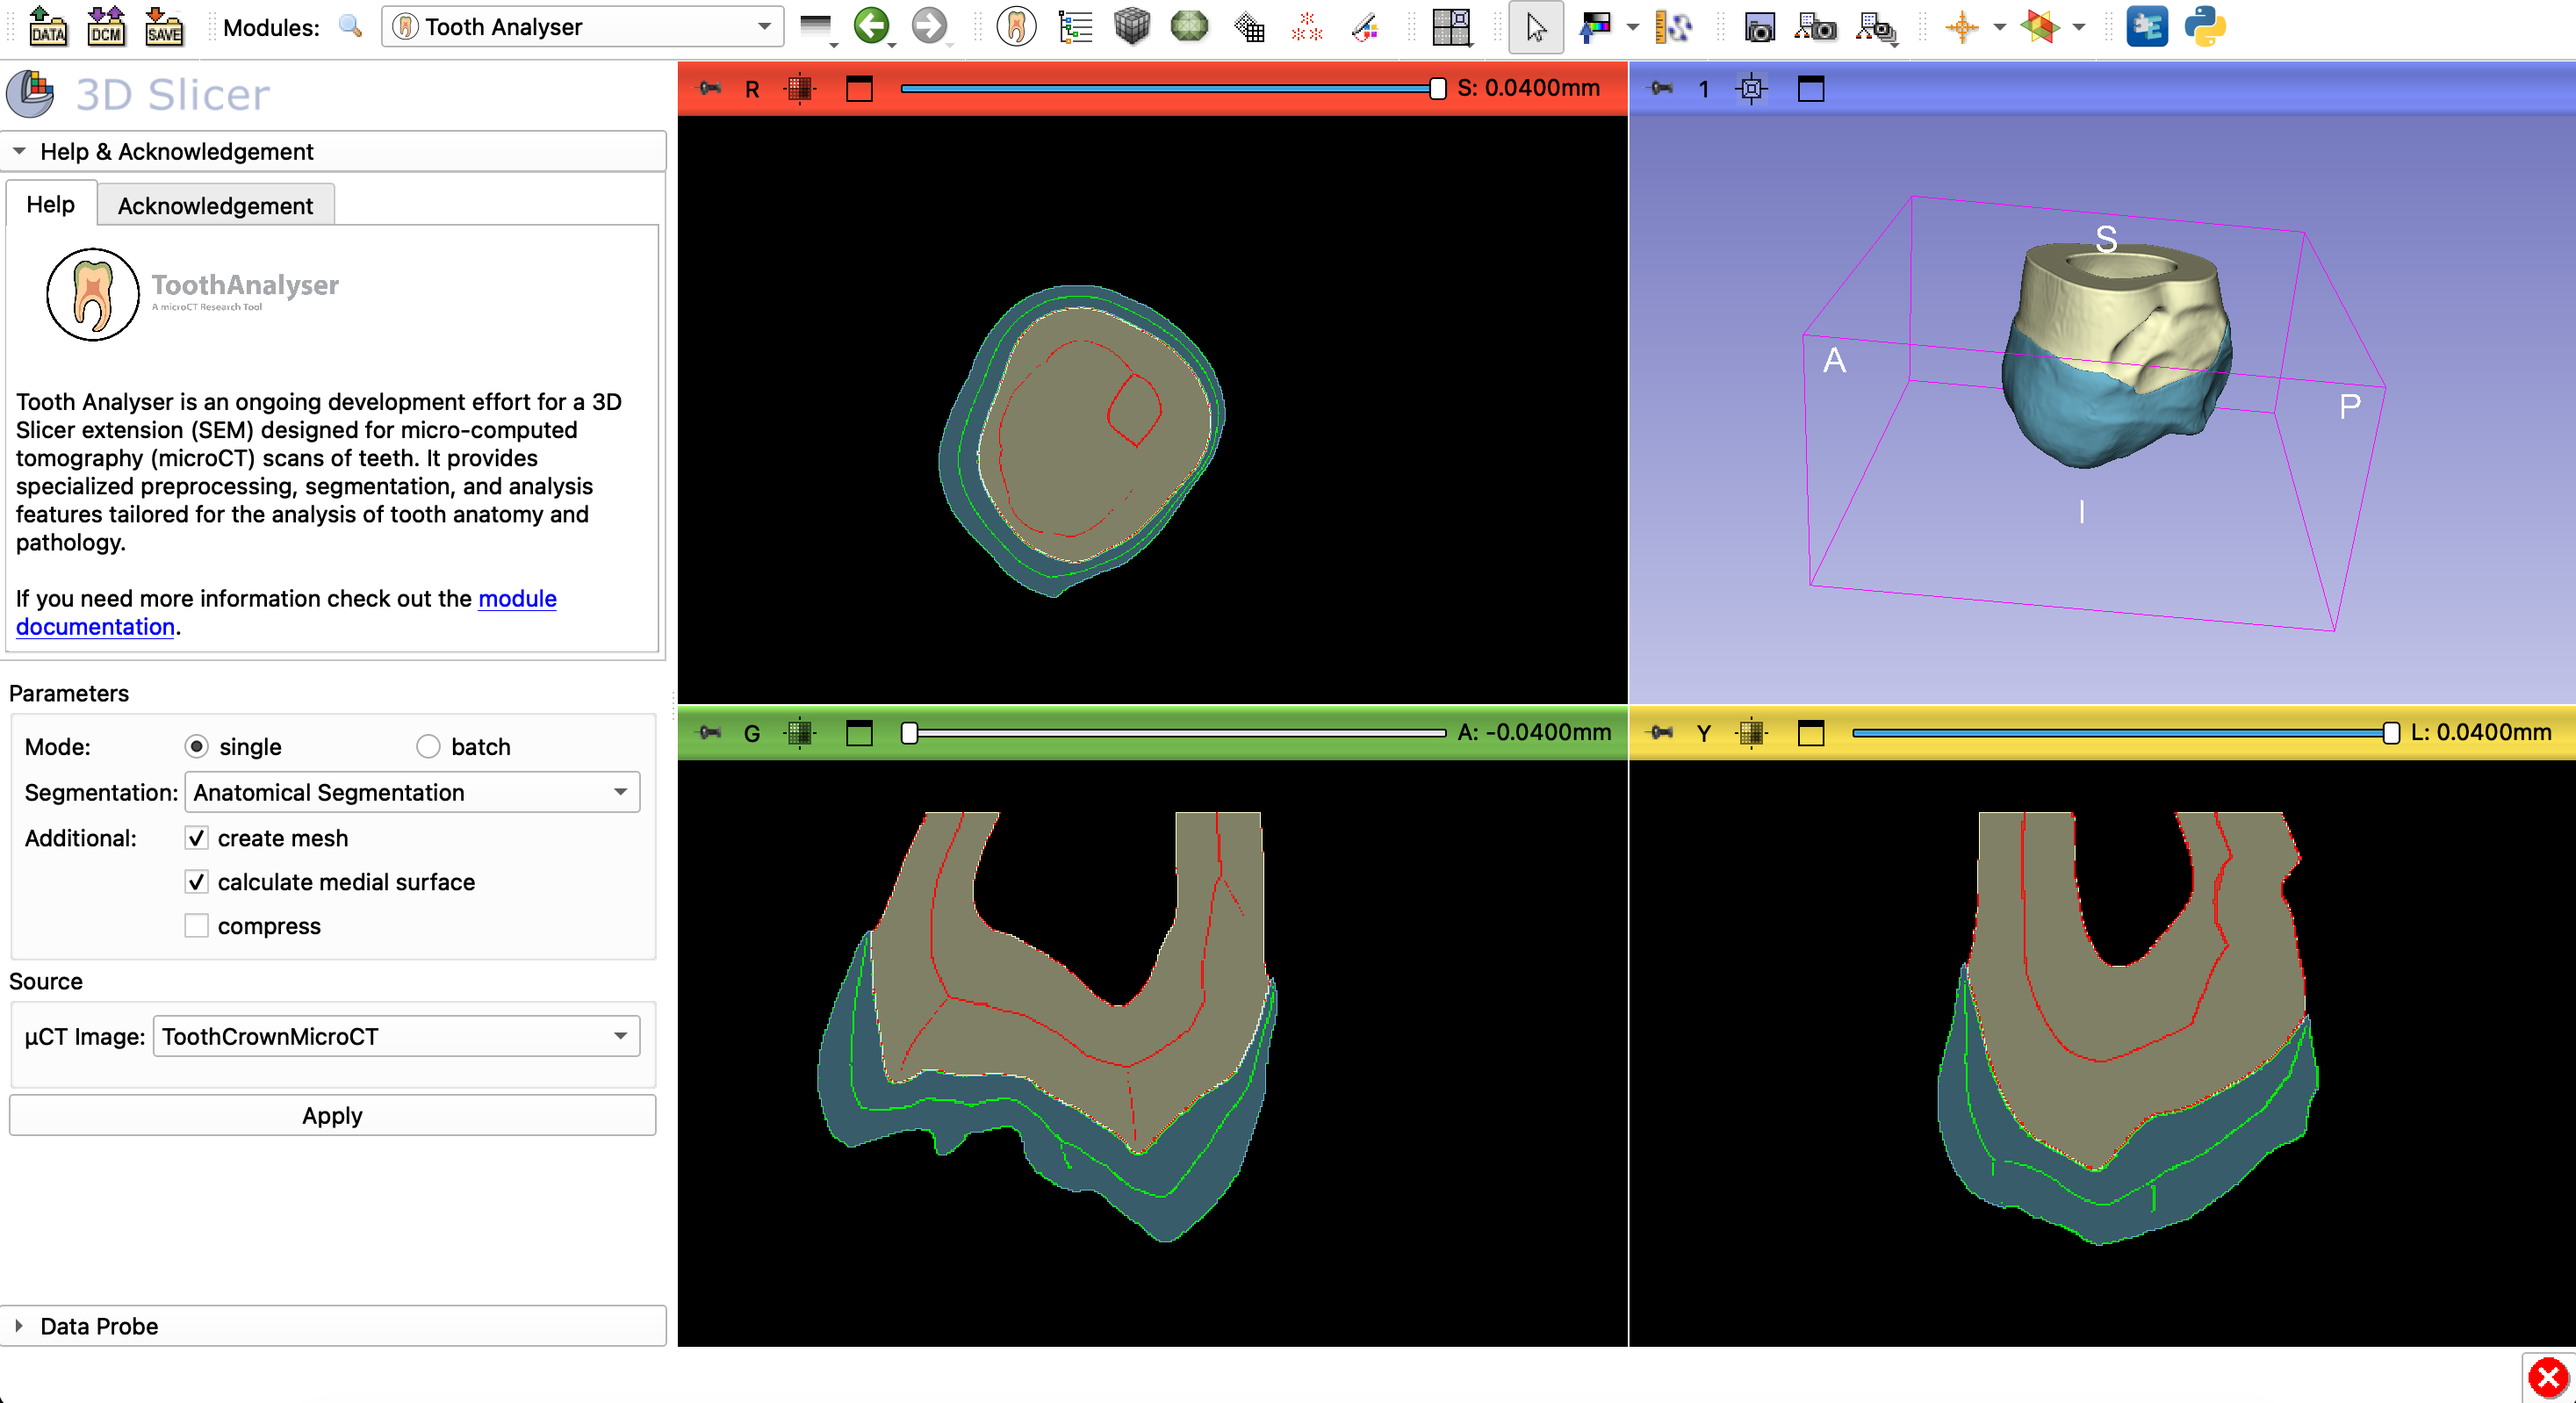
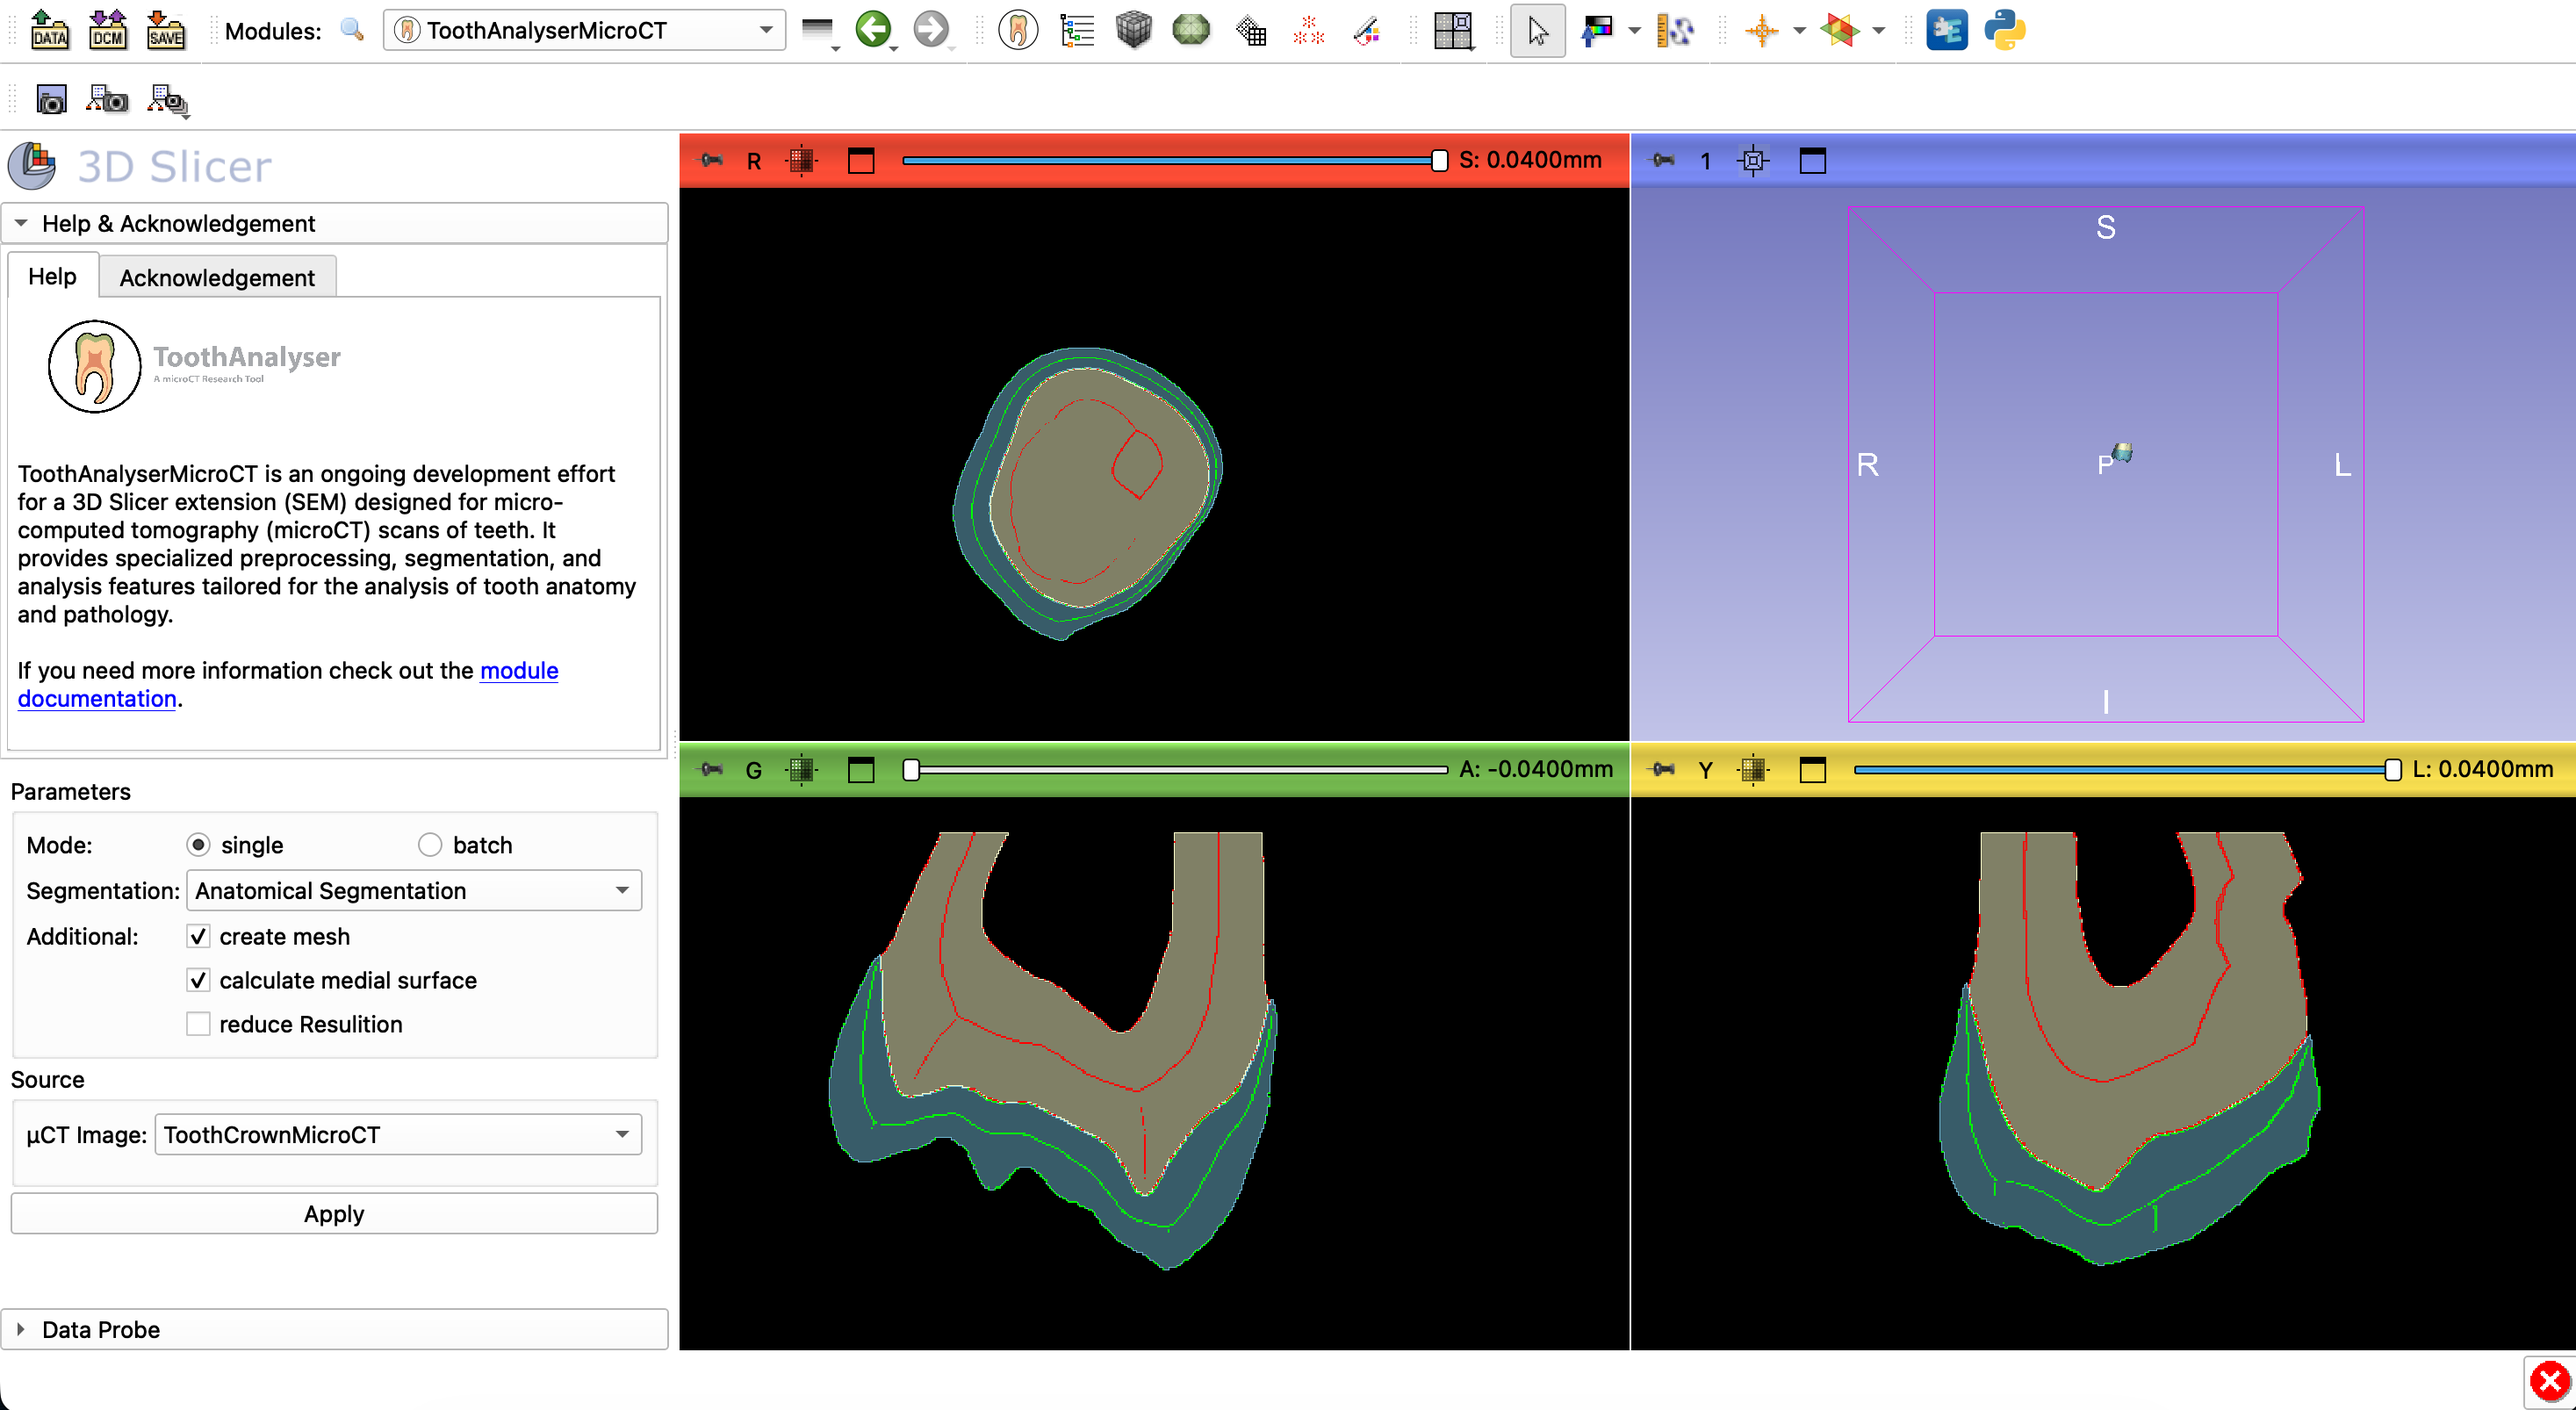
replace image fullView

diff --git a/Documentation/Tutorial.md b/Documentation/Tutorial.md
@@ -12,7 +12,7 @@ what the corresponding option does, when to use it, and what to expect from the 
 - [3. Additional](#3-additional)
   - [3.1 Mesh Creation](#31-mesh-creation)
   - [3.2 Medial Surfaces](#32-medial-surfaces)
-  - [3.3 Compress](#33-compress)
+  - [3.3 Reduce Resolution](#33-reduce-resolution)
 - [4. Possibilities](#4-possibilities)
   - [4.1 Caries Classification](#41-caries-classification)
   - [4.2 Complex Root Analysis](#42-complex-root-analysis)
@@ -96,10 +96,10 @@ disabled depending on the analysis target and required output.
   segmentation. These surfaces can be overlaid with the original image and are required for
   downstream analyses such as caries classification.
 
-### 3.3 Compress
-- **compress**: Downsamples the input image before processing. This can significantly reduce
-  runtime on large datasets, but it also reduces accuracy. If you compress multiple times, runtime
-  drops further while accuracy decreases with each additional compression. For high-quality results,
+### 3.3 Reduce Resolution
+- **reduce resolution**: Downsamples the input image before processing. This can significantly reduce
+  runtime on large datasets, but it also reduces accuracy. If you reduce resolution multiple times, runtime
+  drops further while accuracy decreases with each additional reduction. For high-quality results,
   prefer running on a high-resolution image and accept longer processing times.
 
 ## 4. Possibilities
@@ -123,6 +123,6 @@ Runtime depends strongly on your system and the dataset. The largest share of ru
 comes from the **median smoothing** step: it operates on the full 3D volume and evaluates local
 neighborhoods for every voxel, so processing time grows quickly with image size. Large images,
 medial surface computation, mesh creation, and batch processing all further increase runtime.
-Use the progress bar to monitor the current step, and consider **compress** for faster processing
-when appropriate. **Compress** reduces the volume resolution before smoothing, which speeds up
+Use the progress bar to monitor the current step, and consider **reduce resolution** for faster processing
+when appropriate. **Reduce Resolution** reduces the volume resolution before smoothing, which speeds up
 runtime noticeably but also lowers spatial detail and can reduce segmentation quality.

diff --git a/README.md b/README.md
@@ -67,7 +67,7 @@ To use ToothAnalyserMicroCT efficiently, follow these steps:
 - The algorithm is finished when the progress bar reaches 100% an the result ist visible.
 
 ⚠ **Notice**: With very high-resolution images, the algorithm can take a very long time depending on the machine, 
-because medial filtering is used. If you want a qick result, select the checkbox **compress** in the **Parameter**
+because medial filtering is used. If you want a qick result, select the checkbox **reduce resolution** in the **Parameter**
 Section.
 
 ## 4. Tutorials
